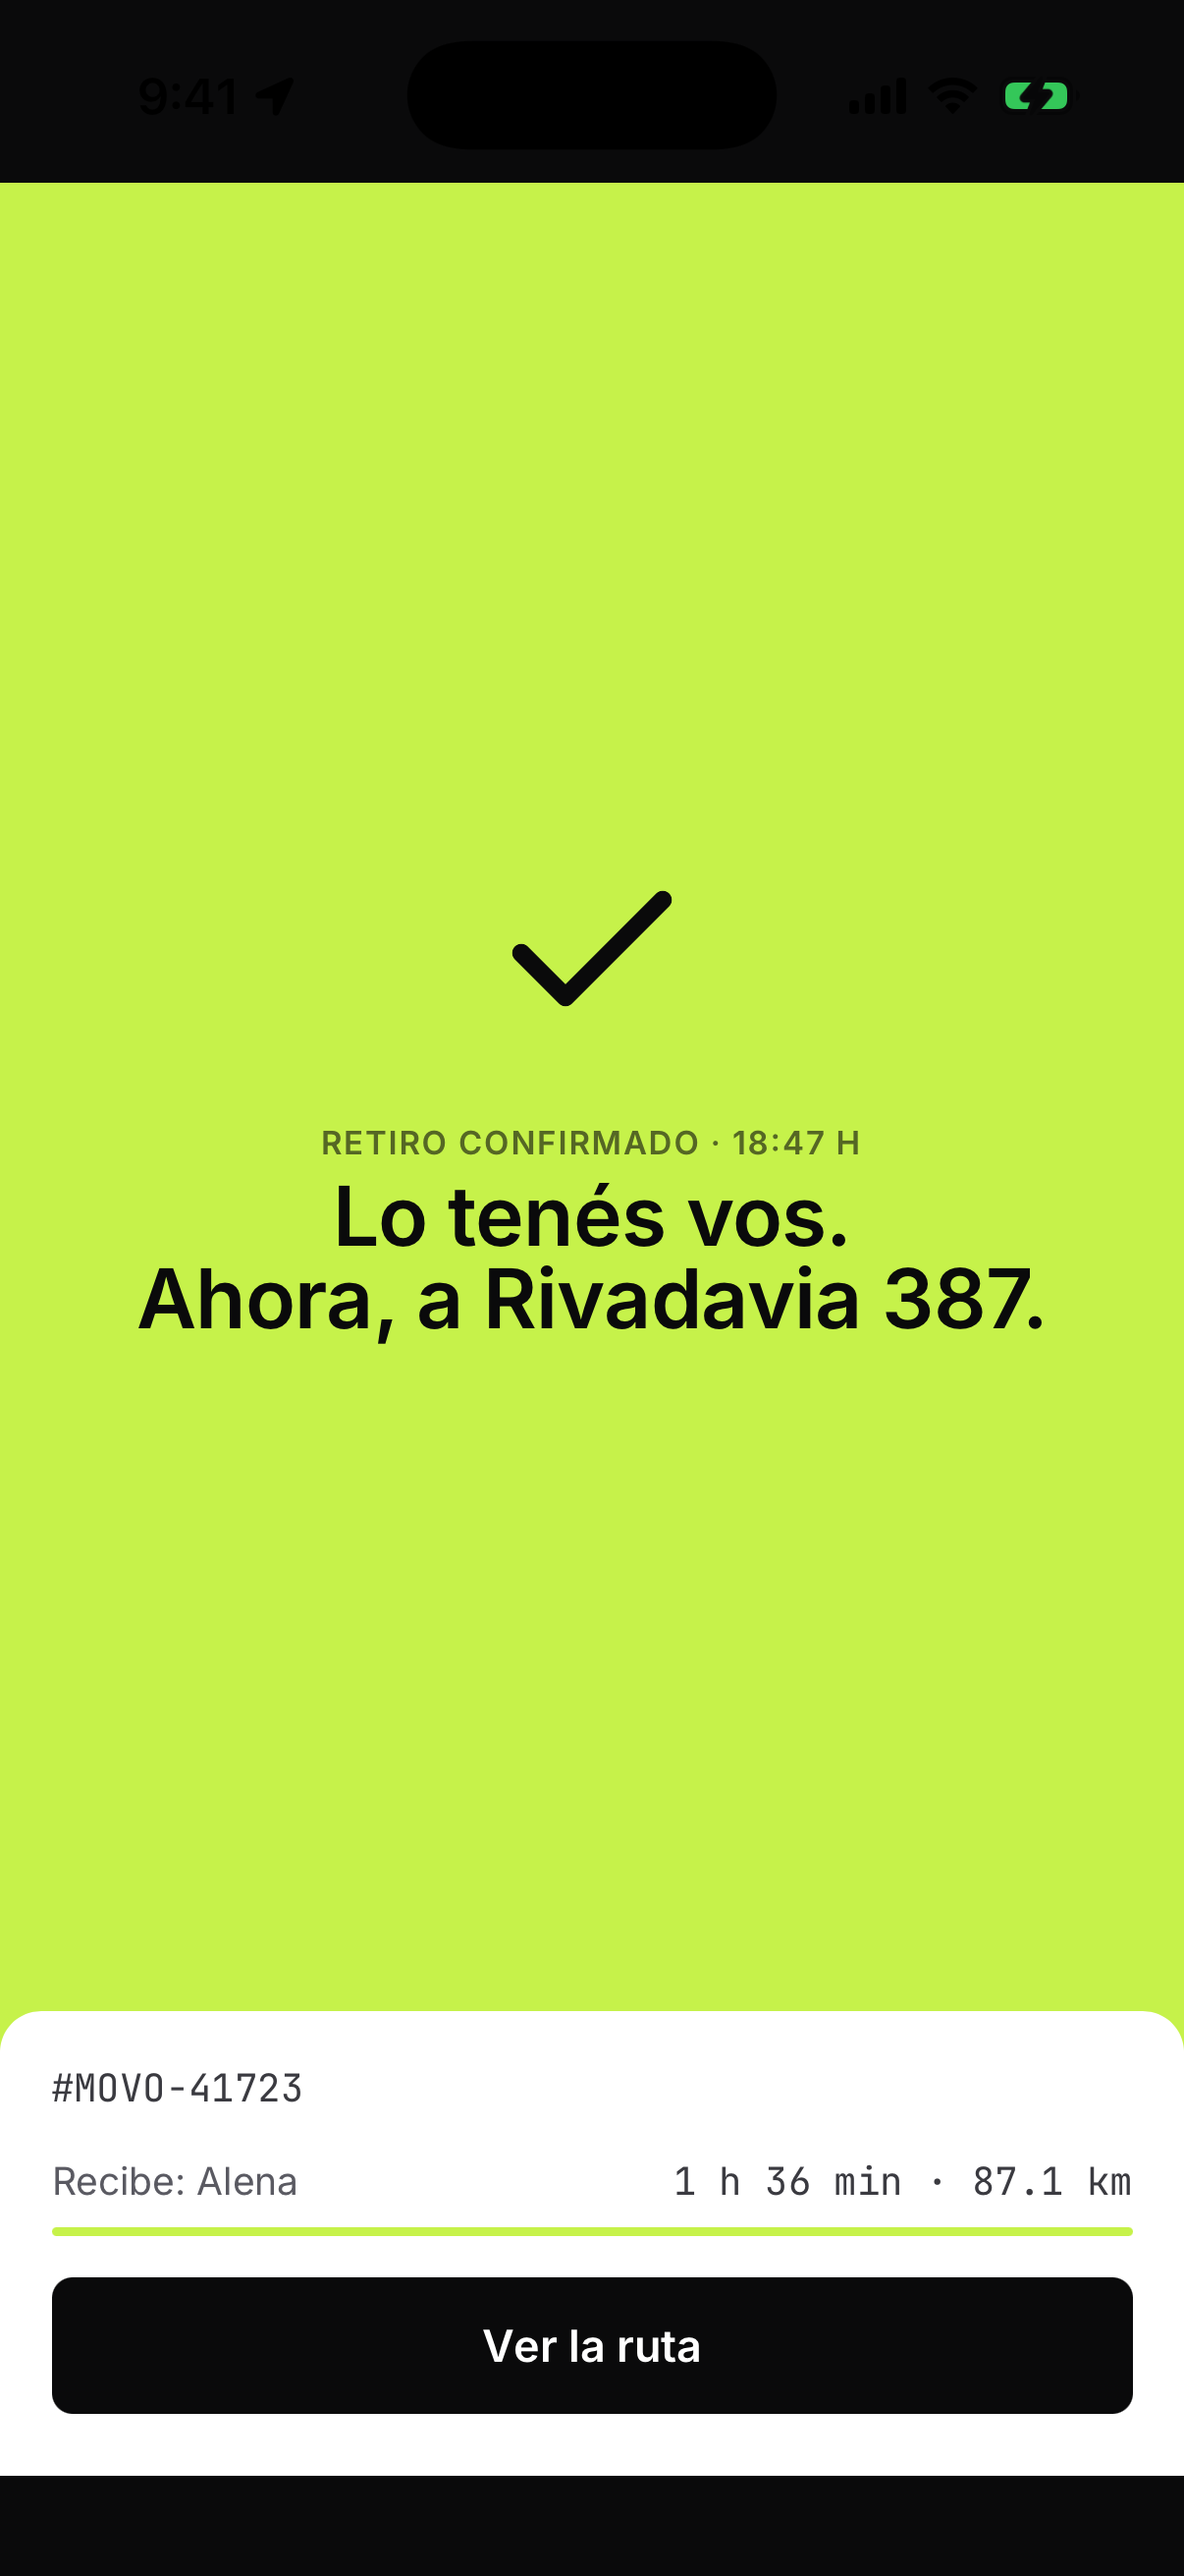
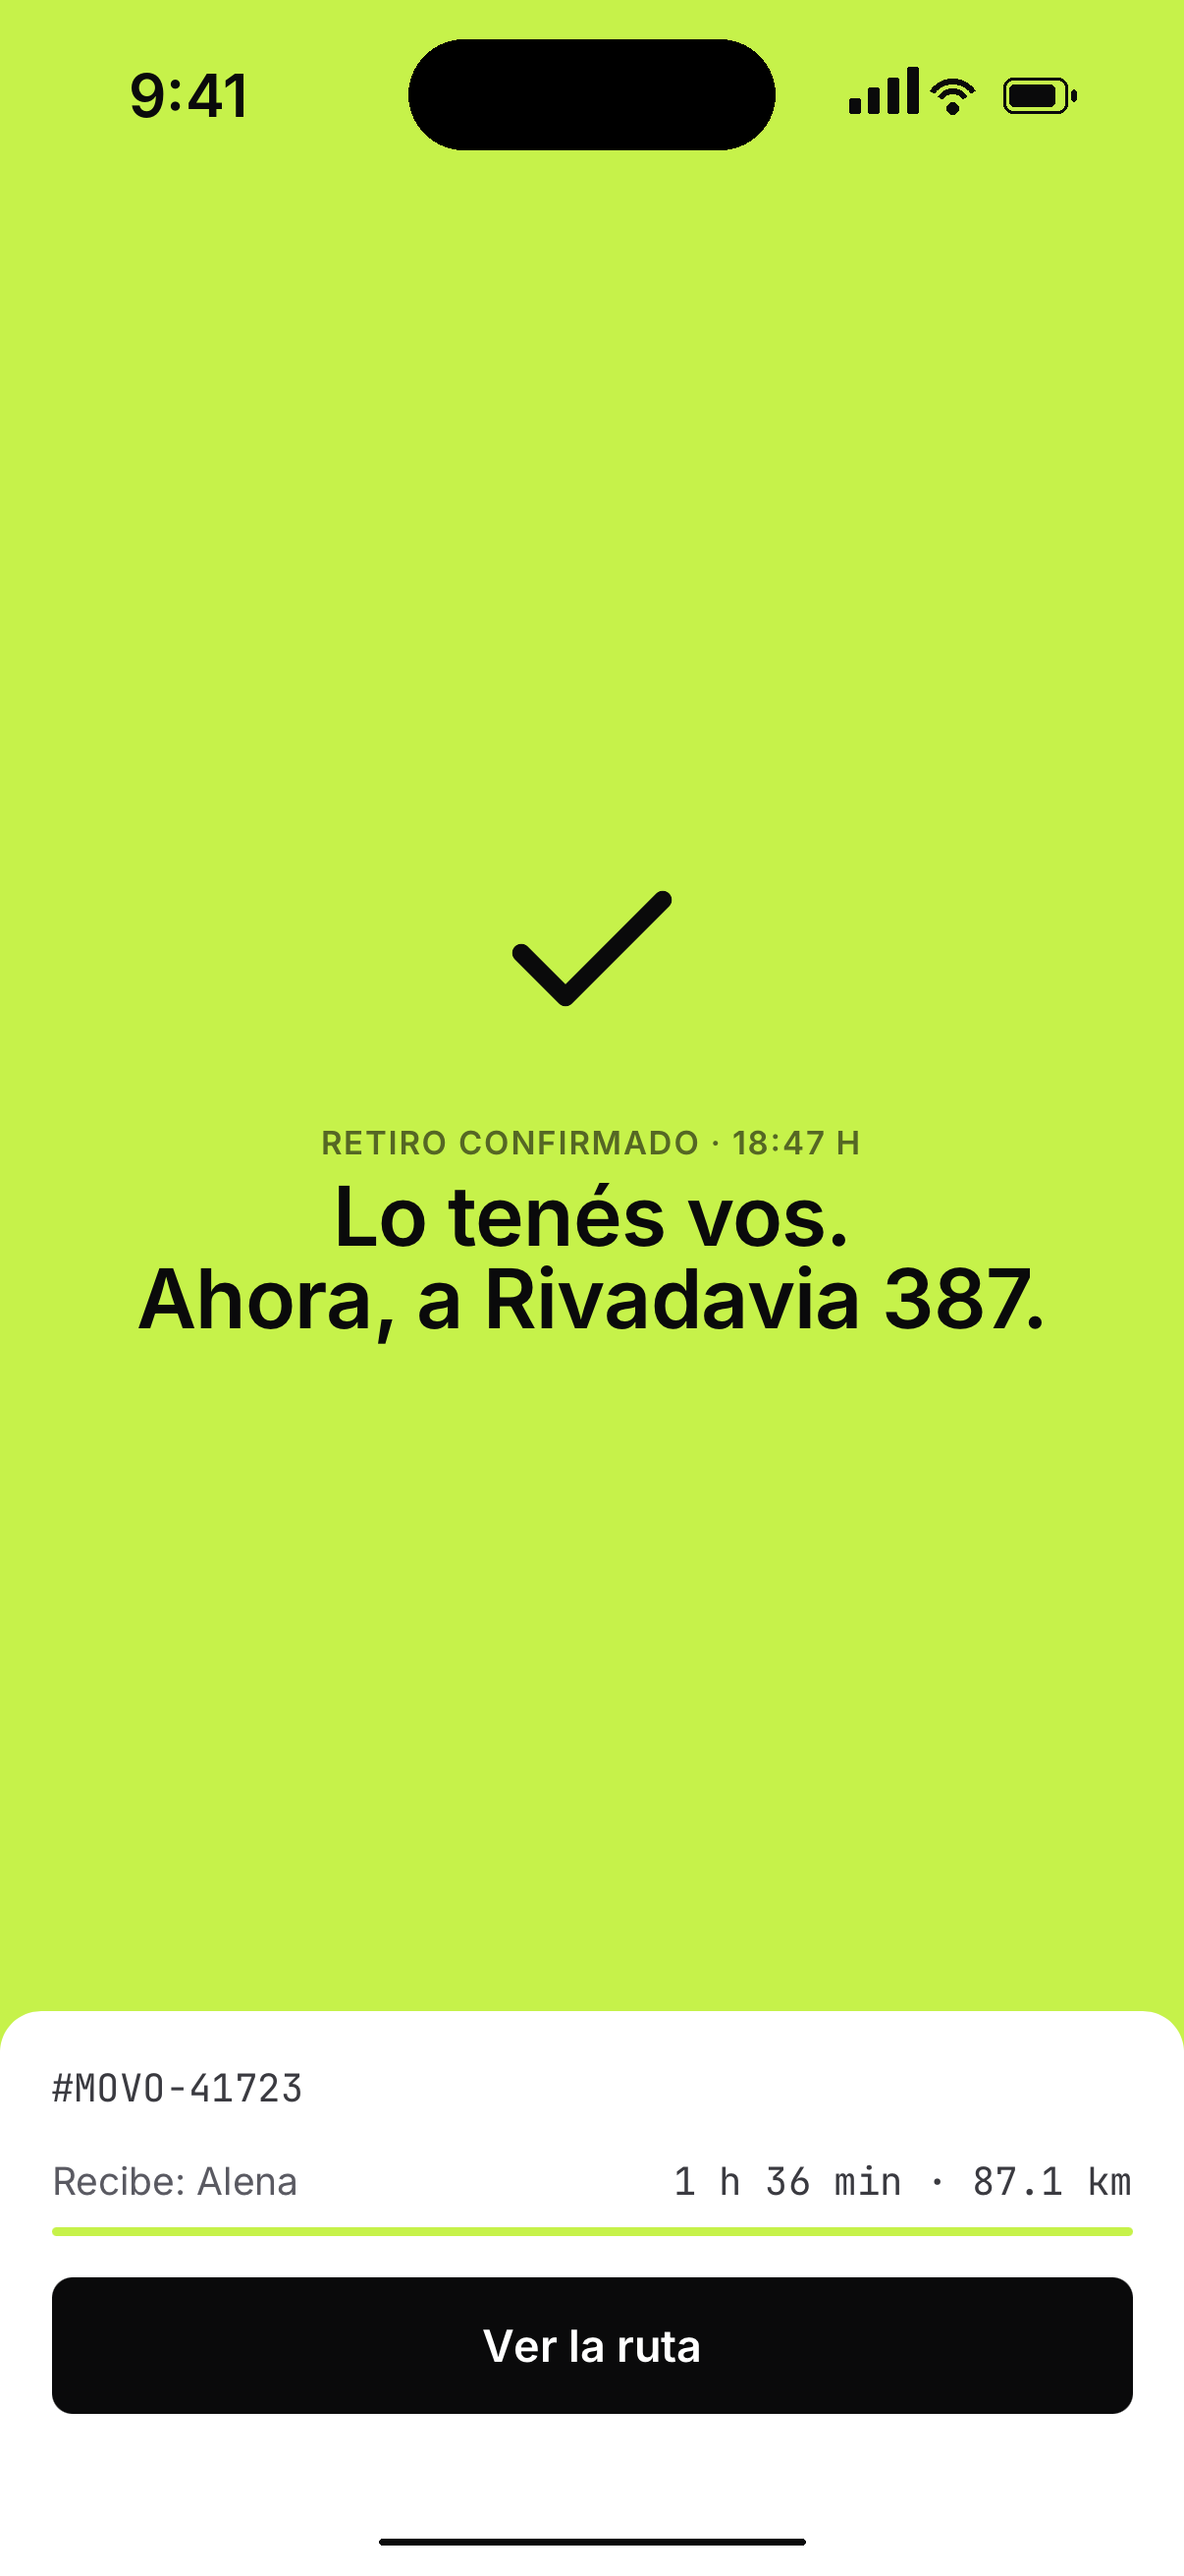
docs(tomos): corrige las barras negras de las safe areas en M-64, M-66 y M-97
Suma arreglar_safe_area.py, que rellena las bandas negras con el color contiguo y
redibuja la barra de estado y el indicador de inicio.

Claude-Session: https://claude.ai/code/session_01BjShSo35s3SEj2aG85T4RF

Changed region(s): [[0.0, 0.0, 1.0, 0.0927], [0.0, 0.9577, 1.0, 1.0]]

diff --git a/docs/tomos/capturas/arreglar_safe_area.py b/docs/tomos/capturas/arreglar_safe_area.py
@@ -1,0 +1,96 @@
+#!/usr/bin/env python3
+"""Corrige las barras negras de las safe areas de una captura del simulador.
+
+Cuando la pantalla no pinta bajo la barra de estado o bajo el indicador de inicio, el simulador
+deja bandas negras arriba y abajo. Este script las detecta (filas negras en los bordes), las
+rellena con el color de la fila contigua y vuelve a dibujar la barra de estado (isla, hora,
+señal, wifi, batería) en oscuro, más el indicador de inicio.
+
+Uso: arreglar_safe_area.py captura.png [...]   (sobrescribe; no hace nada si no hay bandas)
+"""
+import sys
+
+from PIL import Image, ImageDraw, ImageFont
+
+UMBRAL = 12
+
+
+def negro(px) -> bool:
+    return max(px[:3]) <= UMBRAL
+
+
+def banda_superior(im) -> int:
+    w, h = im.size
+    n = 0
+    while n < h // 4 and negro(im.getpixel((3, n))) and negro(im.getpixel((w - 4, n))):
+        n += 1
+    return n
+
+
+def banda_inferior(im) -> int:
+    w, h = im.size
+    n = 0
+    while n < h // 4 and negro(im.getpixel((3, h - 1 - n))) and negro(im.getpixel((w - 4, h - 1 - n))):
+        n += 1
+    return n
+
+
+def barra_estado(d, w, sup):
+    k = w / 920  # las medidas están tomadas sobre 920 px de ancho
+    c = (10, 10, 11)
+    cy = int(74 * k * sup / (141 * k)) if False else int(74 * k)
+    fuente = None
+    for f in ("/usr/share/fonts/opentype/inter/Inter-SemiBold.otf", "/usr/share/fonts/truetype/dejavu/DejaVuSans-Bold.ttf",
+              "/usr/share/fonts/truetype/liberation/LiberationSans-Bold.ttf"):
+        try:
+            fuente = ImageFont.truetype(f, int(46 * k))
+            break
+        except OSError:
+            pass
+    d.text((int(146 * k), cy), "9:41", fill=c, font=fuente, anchor="mm")
+    # señal: 4 barras crecientes
+    for i in range(4):
+        alto = int((12 + 8 * i) * k)
+        x = int((660 + 15 * i) * k)
+        d.rounded_rectangle((x, cy + int(14 * k) - alto, x + int(9 * k), cy + int(14 * k)), radius=int(2 * k), fill=c)
+    # wifi: tres arcos y un punto
+    wx, wy = int(740 * k), cy + int(14 * k)
+    for r in (22, 14):
+        d.arc((wx - int(r * k), wy - int(r * k) - int(6 * k), wx + int(r * k), wy + int(r * k) - int(6 * k)),
+              215, 325, fill=c, width=int(5 * k))
+    d.ellipse((wx - int(5 * k), wy - int(9 * k), wx + int(5 * k), wy + int(1 * k)), fill=c)
+    # batería
+    bx = int(780 * k)
+    d.rounded_rectangle((bx, cy - int(14 * k), bx + int(50 * k), cy + int(14 * k)), radius=int(8 * k), outline=c, width=int(3 * k))
+    d.rounded_rectangle((bx + int(5 * k), cy - int(9 * k), bx + int(40 * k), cy + int(9 * k)), radius=int(4 * k), fill=c)
+    d.rounded_rectangle((bx + int(53 * k), cy - int(5 * k), bx + int(57 * k), cy + int(5 * k)), radius=int(2 * k), fill=c)
+
+
+def arreglar(ruta: str) -> str:
+    im = Image.open(ruta).convert("RGB")
+    w, h = im.size
+    sup, inf = banda_superior(im), banda_inferior(im)
+    if sup < 8 and inf < 8:
+        return "sin bandas"
+    orig = im.copy()
+    d = ImageDraw.Draw(im)
+    if sup >= 8:
+        color = orig.getpixel((3, sup + 2))
+        d.rectangle((0, 0, w, sup + 3), fill=color)
+        # Isla dinámica: se conserva del original (pastilla negra centrada)
+        isla = (int(w * 0.345), int(sup * 0.22), int(w * 0.655), int(sup * 0.82))
+        d.rounded_rectangle(isla, radius=(isla[3] - isla[1]) // 2, fill=(0, 0, 0))
+        barra_estado(d, w, sup)
+    if inf >= 8:
+        color = orig.getpixel((3, h - inf - 3))
+        d.rectangle((0, h - inf - 1, w, h), fill=color)
+        bw, bh = int(w * 0.36), max(6, int(h * 0.0024))
+        cx, y = w // 2, h - int(inf * 0.35)
+        d.rounded_rectangle((cx - bw // 2, y - bh // 2, cx + bw // 2, y + bh // 2), radius=bh // 2, fill=(10, 10, 11))
+    im.save(ruta)
+    return f"arreglada (arriba {sup}px, abajo {inf}px)"
+
+
+if __name__ == "__main__":
+    for r in sys.argv[1:]:
+        print(r, arreglar(r))
